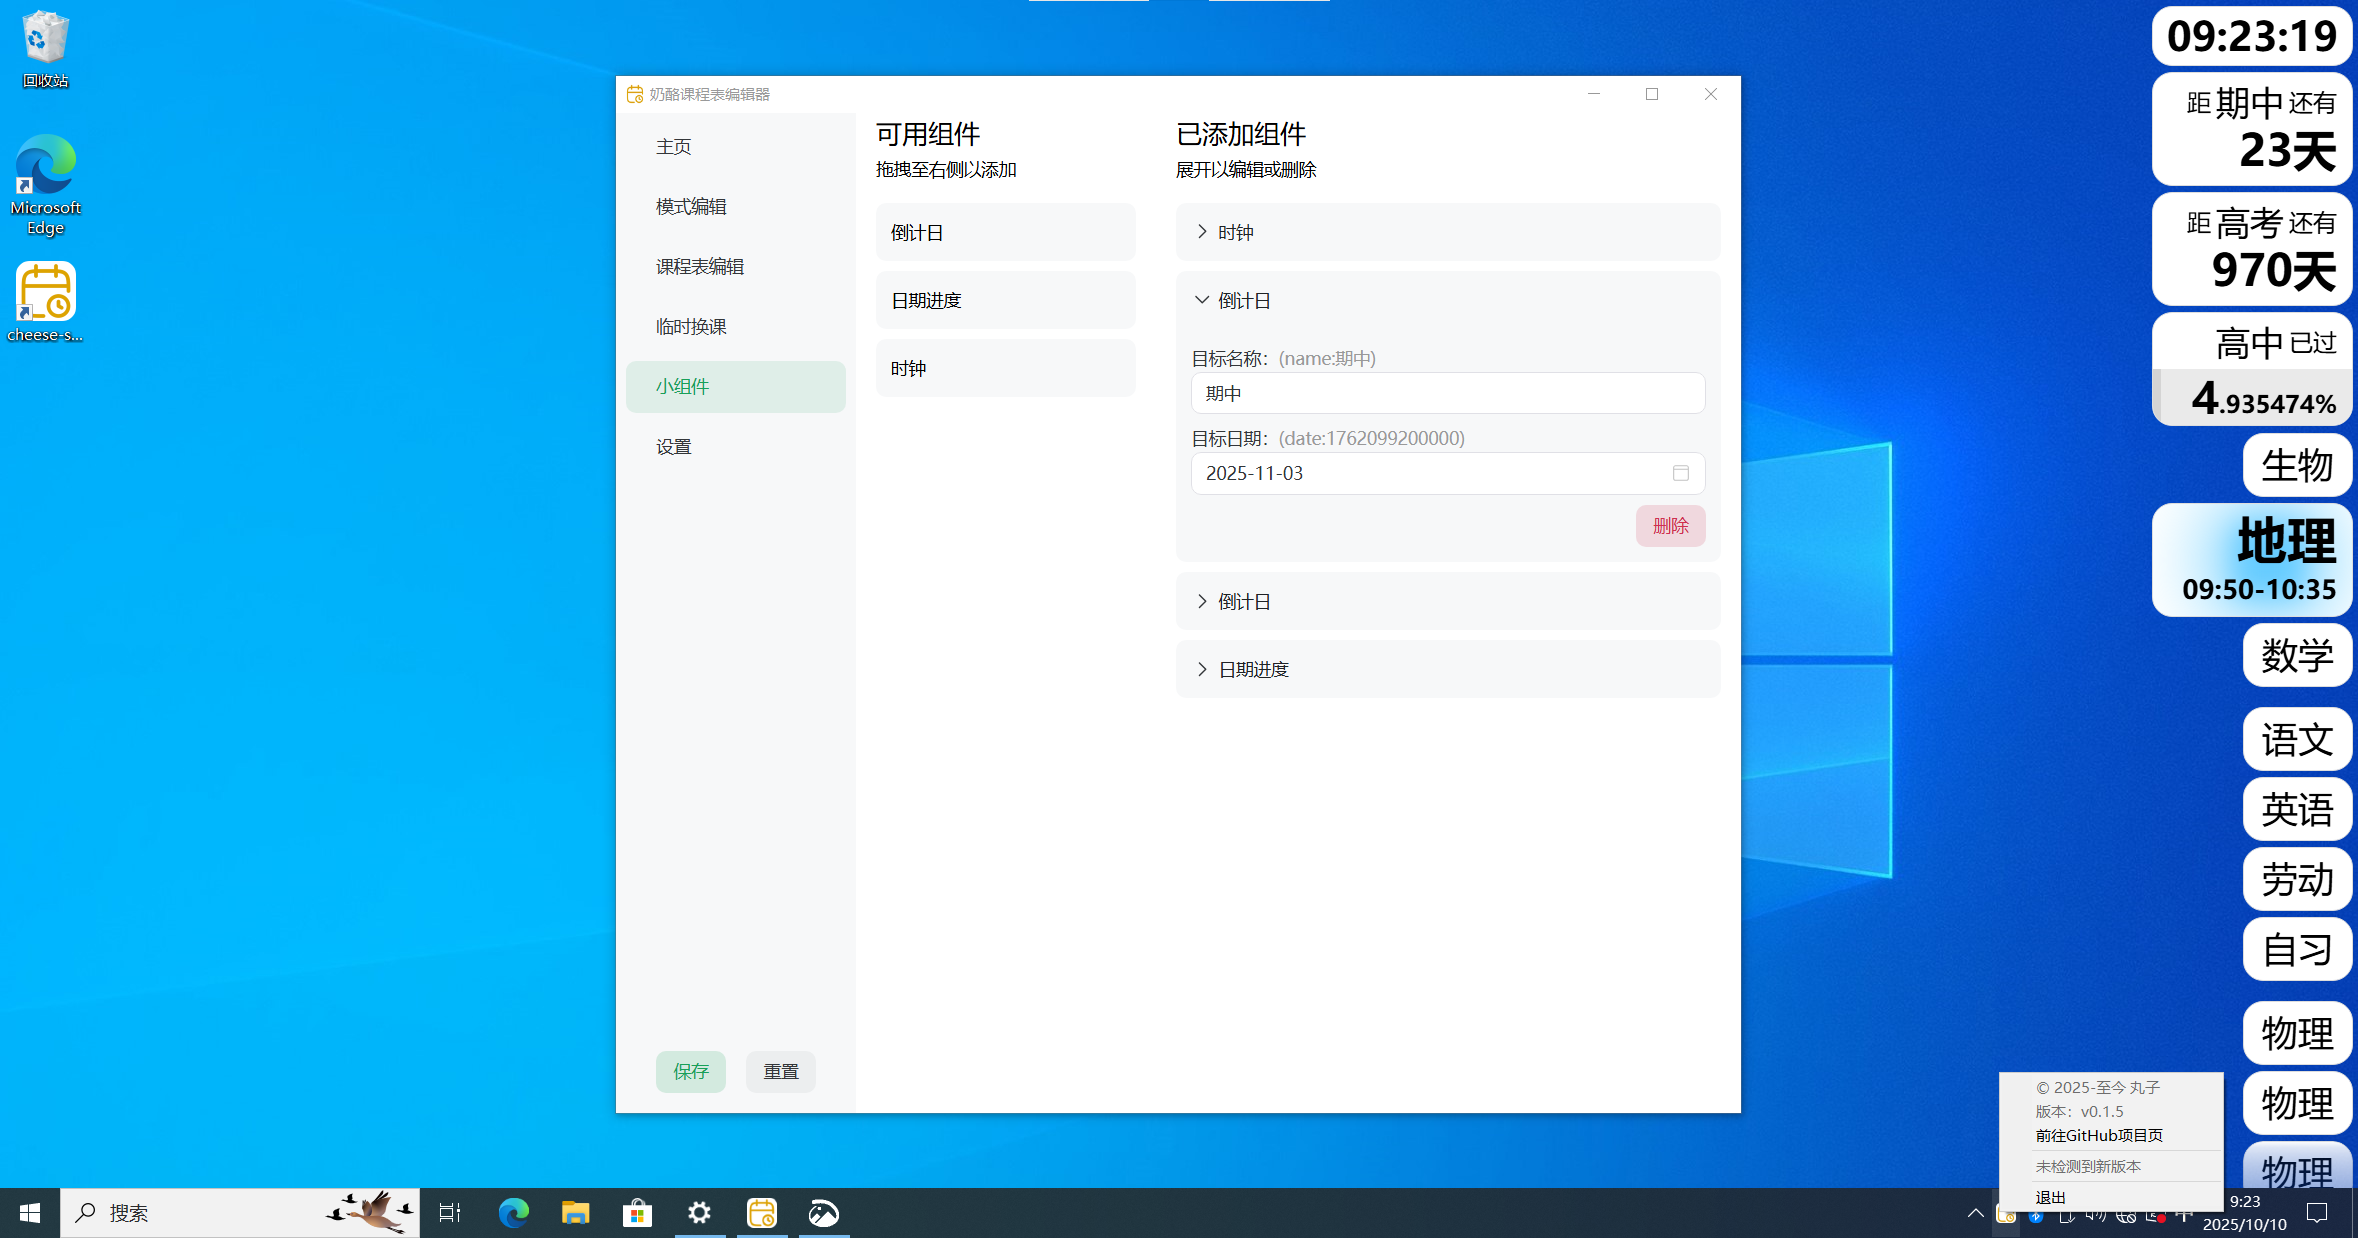
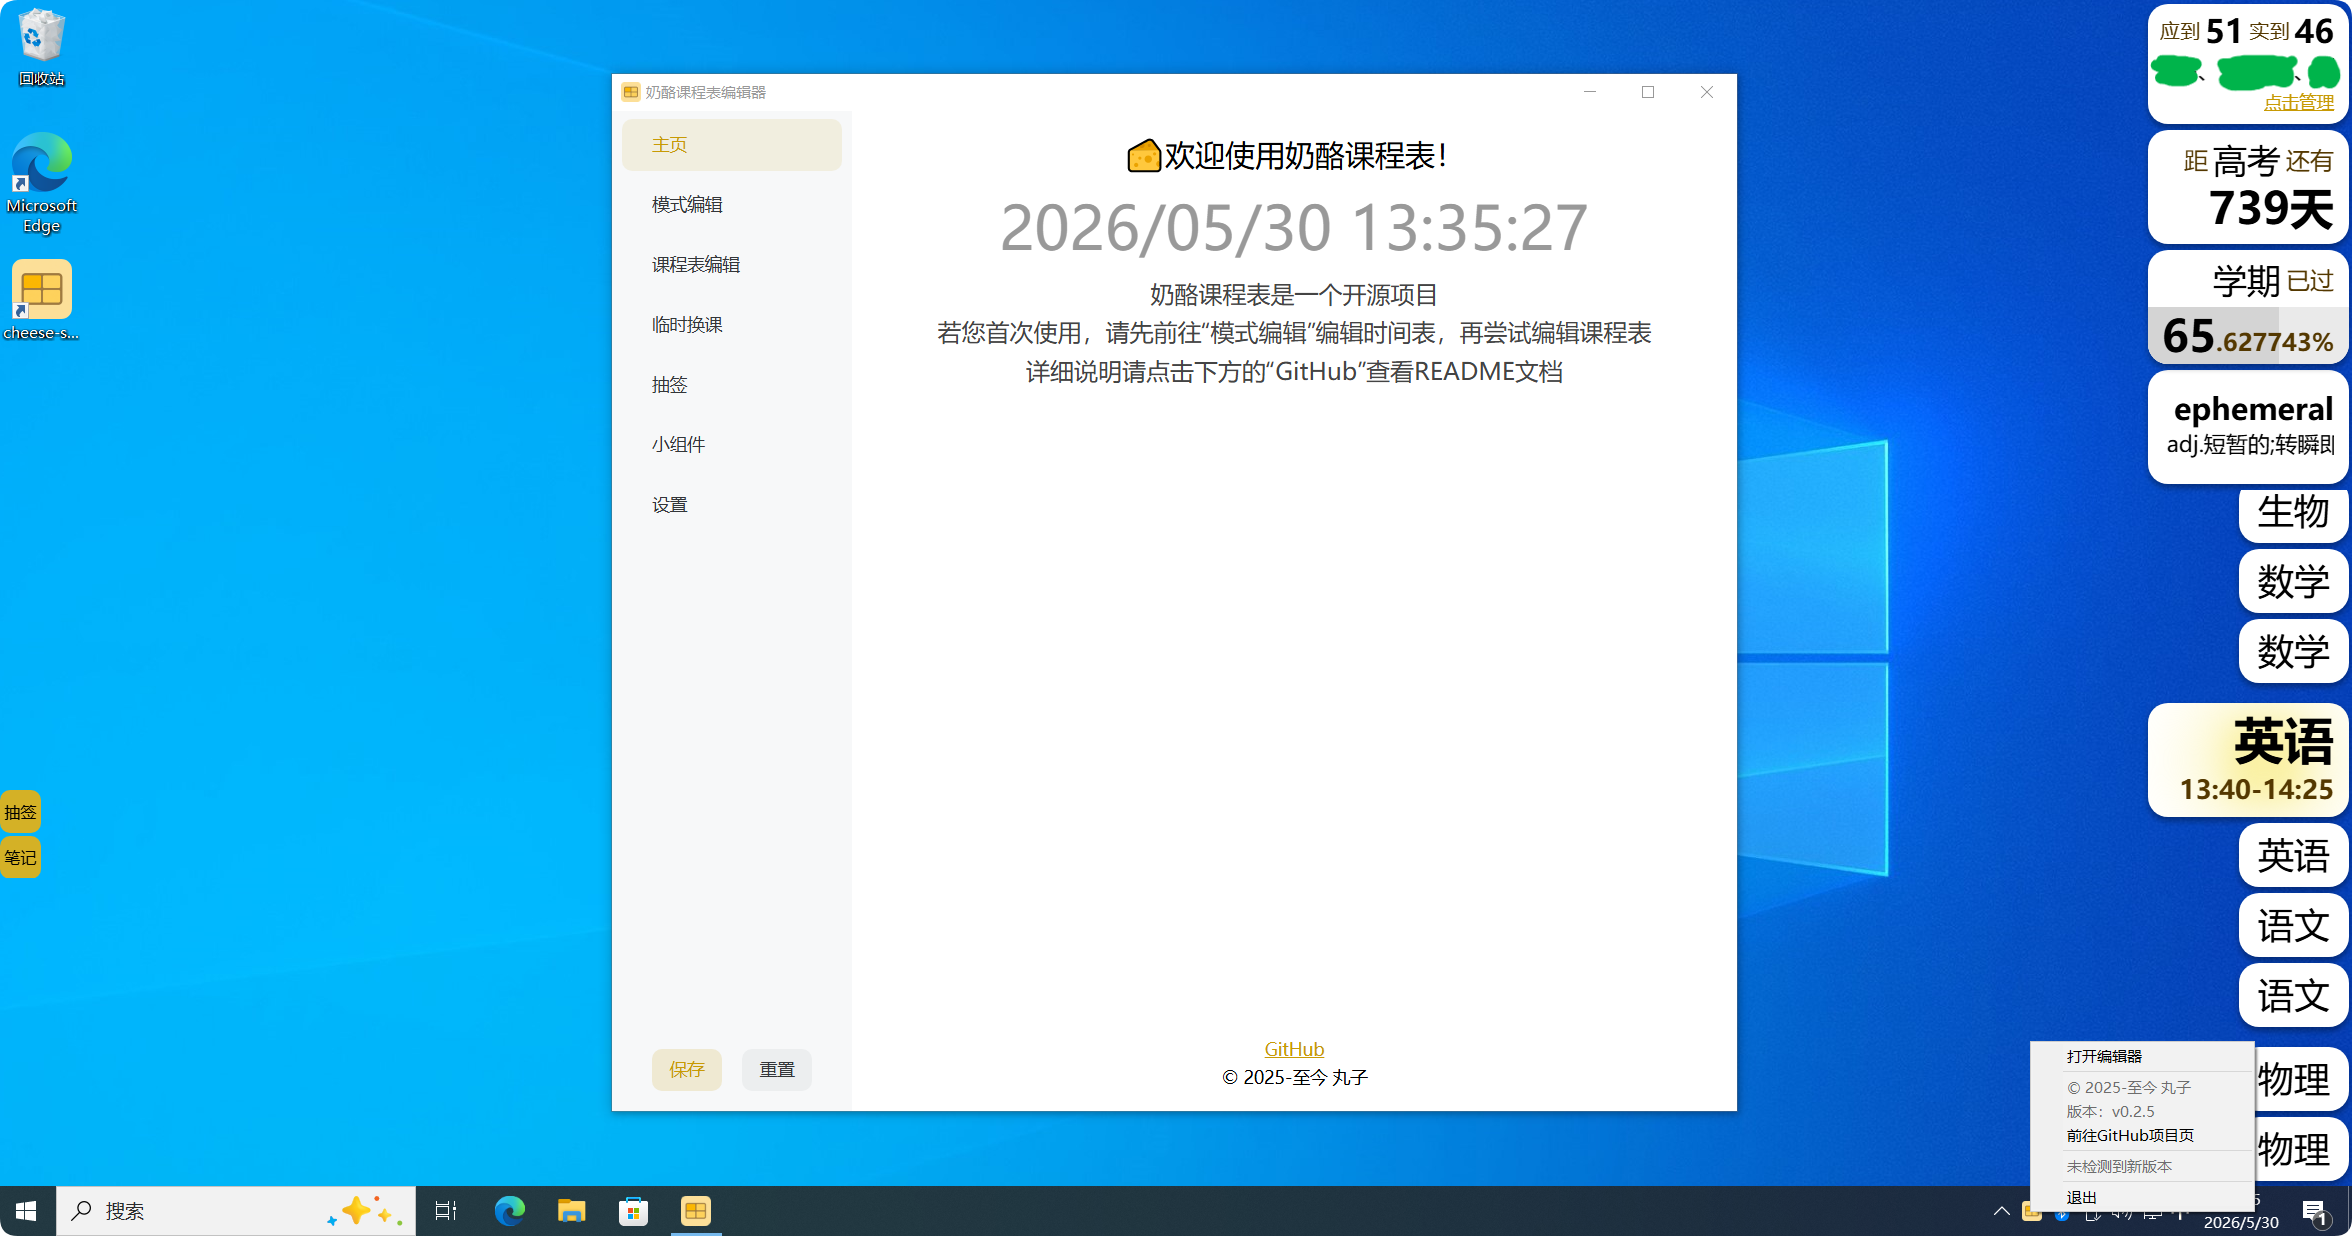
docs: 同步软件新功能

diff --git a/README.md b/README.md
@@ -1,52 +1,78 @@
-# 🧀奶酪课程表
+# <img src="./src-tauri/icons/64x64.png" width="30" height="30" alt="图标"> 奶酪课程表
 
-> 该项目目前正在参加“齐齐哈尔市中俄青少年人工智能创新大赛”，以这条信息证明该项目确实完全由参赛者所开发，且版权属于该参赛者所有。如有怀疑，可前往issue中联系开发者（参赛者）确认身份。
+> 该项目目前正在参加“齐齐哈尔市中俄青少年人工智能创新大赛”，以这条信息证明该项目确实完全由参赛者所开发，且版权属于该参赛者所有。如有疑问，可前往issue中联系开发者（参赛者）确认身份。
 
-该项目基于tauri + vite + vue开发
+奶酪课程表是一款简洁的教室大屏电子课表软件，基于tauri + vite + vue开发
 
-> 体积小巧，界面简洁
-
-仅针对windows10/11进行了测试，windows7等旧系统[无法正常使用](#why-not-win7)。
+仅针对windows10/11进行开发和测试，windows7等旧系统[无法正常使用](#why-not-win7)。
 
 ![screenshot1](./readme-assets/screenshot1.png)
 
-得益于tauri2的跨平台特性，程序大部分功能支持linux系统（如需体验，请自行使用源代码构建）
+得益于tauri2的跨平台特性，程序也实验性支持linux和macos系统。
 
-> 图为直接在无需高权限的目录运行可执行文件的效果
->
-> 若构建为deb包后安装，由于配置文件的保存位置与可执行文件是同一目录，在无root权限的情况下无法编辑生成/修改配置文件
+> 若在linux中构建为deb包后安装，由于配置文件的保存位置与可执行文件是同一目录，在无root权限的情况下无法编辑生成/修改配置文件
 
 ![screenshot_ubuntu](./readme-assets/screenshot_ubuntu.png)
 
 ## 功能
 
-包括但不限于：
+### 课表
 
 - [x] 时间模式编辑
 - [x] 课程表编辑
-- [x] 多周轮换课表
-- [x] 课程表显示（自动每日轮换）
+- [x] 图片导入（AI驱动）
+- [x] 多周轮换
+- [x] 课程表每日自动轮换显示
 - [x] 当日临时换课
-- [x] 小组件（如：时钟、倒计日、日期进度）
+- [x] 时间偏移
+- [x] 上下课语音提醒（AI TTS）
+- [x] 窗口上下课自动置顶置底
 
-自定义项：
+### 小组件
+
+- [x] 时钟
+- [x] 倒计日
+- [x] 日期进度
+- [x] 出席人数（需要搭配[请假服务器](https://github.com/xwzkj/leaveServer)使用，请自行搭建后端服务）
+- [x] 每日单词（AI驱动）
+
+### 随机抽选（抽签）
+
+- [x] 快捷键触发
+- [x] 悬浮按钮
+- [x] 动态概率（根据抽签历史动态调整）
+- [x] 防止重复（轮次功能）
+- [x] 课前自动开启新轮次
+- [x] 排除请假者
+- [x] 课间防作弊（课间抽选不计入历史记录）
+- [x] 防娱乐（若抽签过快则延长冷却时间）
+
+### 杂项
+
+- [x] AI笔记（截屏总结）
+- [x] 编辑器密码锁定
+- [x] U盘密钥解锁
+- [x] 按页面锁定
+- [x] 配置文件导入导出（手动复制）
+- [x] 新版本检测
+
+### 自定义项
 
 - [x] 缩放调节（主窗口）
 - [x] 高度调节（主窗口）
+- [x] 主题色
 
 ## 使用说明
 
-- 程序运行时，会在系统托盘区显示一个图标，点击即可打开编辑器窗口
+- 程序运行时，会在系统托盘区显示一个图标，点击即可打开编辑器窗口，右键点击（触屏长按）可打开菜单，可于此进行软件更新等操作
 - 首次使用：
   1. 在`模式编辑`中配置时间模式（时间表）
   2. 在`课程表编辑`中选择每一天的`模式`
-  3. 配置每一节课的`课程`
+  3. 配置每一节课的`课程` / 在`设置`配置AI API密钥后使用`从课程表图片导入`功能
   4. 配置完成后点击`保存`即可
 - 变更将在您点击`保存`后生效并存储到配置文件
 - 配置文件全部存储在`应用安装目录`下的`config.json`文件中，可在`设置`中直接定位到该文件以进行导入导出
 - 程序默认为开机自启，若要关闭，请更改配置文件的`startup`字段为`false`，设置将在重启程序后生效
-
-> 小组件`出席人数`需要搭配[请假服务器](https://github.com/xwzkj/leaveServer)使用，请自行搭建后端服务
 
 ## 备注
 
@@ -61,13 +87,5 @@
 需改动三处：
 
 - 添加小组件本体：位于`src/component/widgets`目录下，是一个vue单文件组件
-- 在小组件编辑页添加配置项：在`src/pages/widgetEditor.vue`中的列表中添加新的配置对象
+- 在小组件编辑页添加配置项：在`src/pages/editor-widget.vue`中的列表中添加新的配置对象
 - 在主窗口添加解析：在`src/pages/mainWindow.vue`导入小组件本体，并在`getWidgetComponent`函数添加新的分支
-
-### 构建
-
-tauri在构建时使用的版本号：
-
-产品版本->Cargo.toml
-
-文件版本->tauri.conf.json